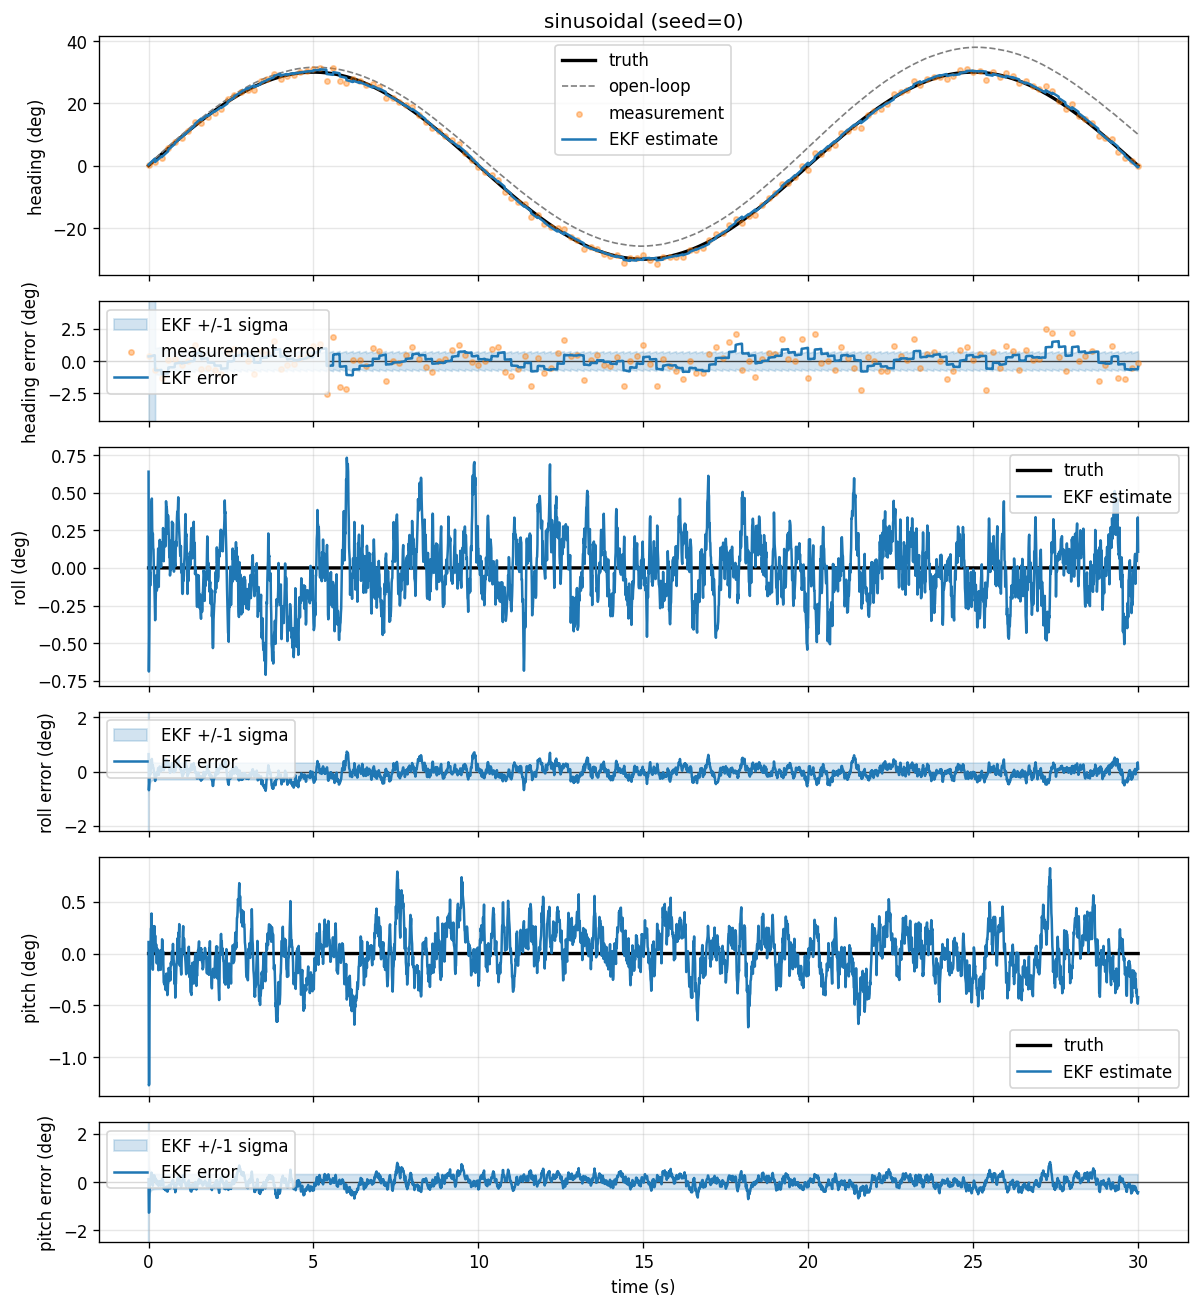
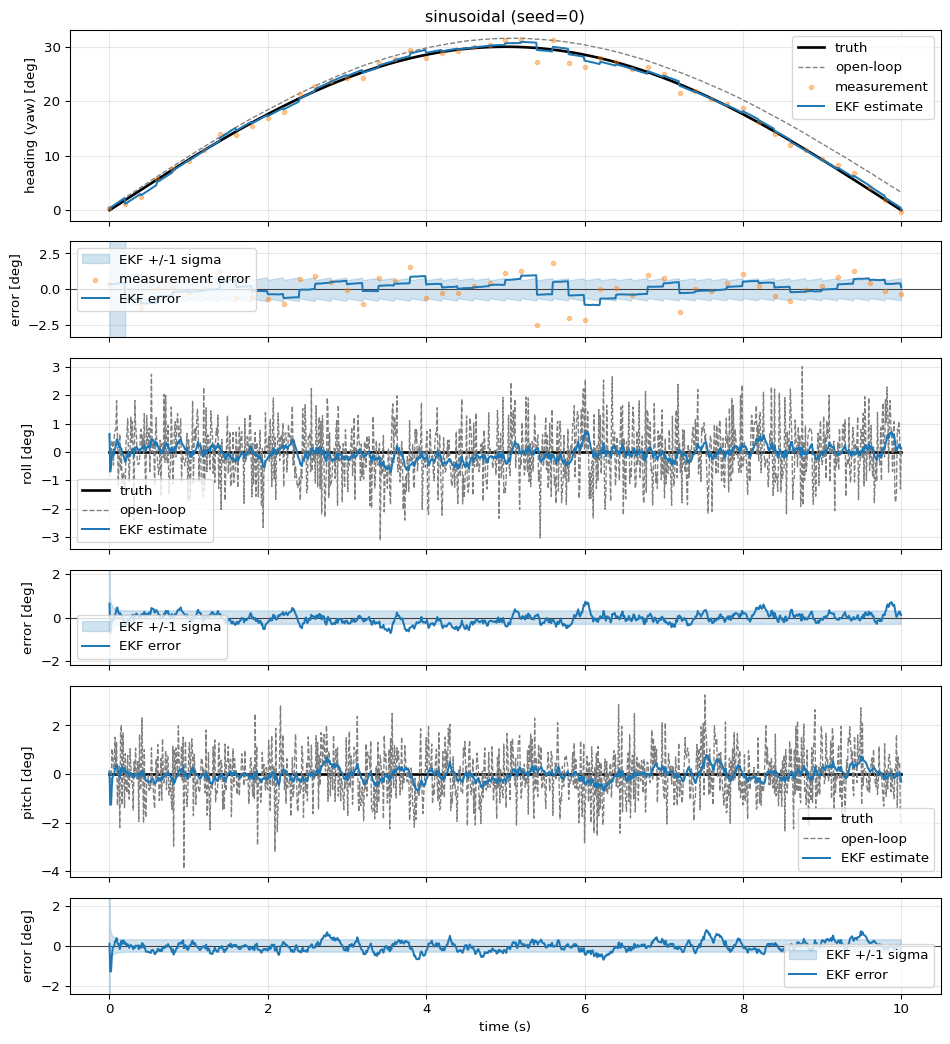
Add simulate last-frame PNG; lower image DPI to 96

diff --git a/sim/plrs_sim/plot.py b/sim/plrs_sim/plot.py
@@ -72,7 +72,7 @@ def plot_trace(
     fig.tight_layout()
 
     if save is not None:
-        fig.savefig(save, dpi=120, bbox_inches="tight")
+        fig.savefig(save, dpi=96, bbox_inches="tight")
     if show:
         plt.show()
     plt.close(fig)
@@ -134,7 +134,7 @@ def plot_pose(
     fig.tight_layout()
 
     if save is not None:
-        fig.savefig(save, dpi=120, bbox_inches="tight")
+        fig.savefig(save, dpi=96, bbox_inches="tight")
     if show:
         plt.show()
     plt.close(fig)
@@ -155,9 +155,10 @@ def plot_animate(
     displays it with `kitty +kitten icat --hold`; press any key to continue.
     On GUI backends, opens a Qt window that loops until closed.
     """
-    import matplotlib
     import subprocess
     import tempfile
+
+    import matplotlib
 
     heading = trace.channels["heading"]
     roll = trace.channels["roll"]
@@ -218,7 +219,7 @@ def plot_animate(
         if _has_imu_raw and not np.isnan(heading.openloop[i]):  # type: ignore[index]
             draw_boat(
                 ax,
-                roll.openloop[i],   # type: ignore[index]
+                roll.openloop[i],  # type: ignore[index]
                 pitch.openloop[i],  # type: ignore[index]
                 heading.openloop[i],  # type: ignore[index]
                 color="tab:green",
@@ -237,6 +238,7 @@ def plot_animate(
 
     def _write_gif(path: Path) -> None:
         from matplotlib.animation import PillowWriter
+
         total = len(gif_indices)
         w = PillowWriter(fps=_GIF_FPS)
         with w.saving(fig, path, dpi=_GIF_DPI):
@@ -249,10 +251,14 @@ def plot_animate(
     if save is not None:
         if str(save).endswith(".gif"):
             _write_gif(save)
+        elif str(save).endswith(".png"):
+            draw_frame(indices[-1])
+            fig.savefig(save, dpi=96, bbox_inches="tight")
         else:
             from matplotlib.animation import FFMpegWriter
+
             w = FFMpegWriter(fps=fps)
-            with w.saving(fig, save, dpi=120):
+            with w.saving(fig, save, dpi=96):
                 for i in indices:
                     draw_frame(i)
                     w.grab_frame()
@@ -260,7 +266,9 @@ def plot_animate(
     try:
         if show and _is_terminal:
             # Reuse an already-rendered save gif; otherwise write a temp one.
-            gif_path: Path | None = save if (save is not None and str(save).endswith(".gif")) else None
+            gif_path: Path | None = (
+                save if (save is not None and str(save).endswith(".gif")) else None
+            )
             tmp: Path | None = None
             if gif_path is None:
                 with tempfile.NamedTemporaryFile(suffix=".gif", delete=False) as f:
@@ -268,9 +276,7 @@ def plot_animate(
                 _write_gif(tmp)
                 gif_path = tmp
             try:
-                subprocess.run(
-                    ["kitty", "+kitten", "icat", str(gif_path)], check=False
-                )
+                subprocess.run(["kitty", "+kitten", "icat", str(gif_path)], check=False)
             finally:
                 if tmp is not None:
                     tmp.unlink(missing_ok=True)

diff --git a/sim/plrs_sim/boat3d.py b/sim/plrs_sim/boat3d.py
@@ -26,13 +26,13 @@ _DEG_TO_RAD = np.pi / 180.0
 # and heading.
 _VERTICES = np.array(
     [
-        [1.0, 0.0, 0.0],    # 0 bow
-        [0.5, 0.35, 0.0],   # 1 fwd port
+        [1.0, 0.0, 0.0],  # 0 bow
+        [0.5, 0.35, 0.0],  # 1 fwd port
         [-0.9, 0.30, 0.0],  # 2 transom port top
-        [-0.9, -0.30, 0.0], # 3 transom stbd top
+        [-0.9, -0.30, 0.0],  # 3 transom stbd top
         [0.5, -0.35, 0.0],  # 4 fwd stbd
         [-0.9, 0.30, -0.30],  # 5 transom port bottom (directly below 2)
-        [-0.9, -0.30, -0.30], # 6 transom stbd bottom (directly below 3)
+        [-0.9, -0.30, -0.30],  # 6 transom stbd bottom (directly below 3)
         [0.7, 0.0, -0.25],  # 7 keel fwd
     ]
 )
@@ -147,7 +147,7 @@ def plot_mounting(
     fig.tight_layout()
 
     if save is not None:
-        fig.savefig(save, dpi=120, bbox_inches="tight")
+        fig.savefig(save, dpi=96, bbox_inches="tight")
     if show:
         plt.show()
     plt.close(fig)

diff --git a/sim/plrs_sim/__main__.py b/sim/plrs_sim/__main__.py
@@ -173,12 +173,10 @@ def _zero_to_none(x: float) -> float | None:
 
 
 def _select_interactively(parser: argparse.ArgumentParser) -> argparse.Namespace | None:
-    """Arrow-key prompt for view then (if needed) scenario; returns parsed args or None."""
+    """Prompt for view then (if needed) scenario; returns parsed args or None."""
     import questionary
 
-    view_label = questionary.select(
-        "View", choices=[*_VIEW_LABELS, "quit"]
-    ).ask()
+    view_label = questionary.select("View", choices=[*_VIEW_LABELS, "quit"]).ask()
     if view_label is None or view_label == "quit":
         return None
     view = _VIEW_LABELS[view_label]

diff --git a/README.md b/README.md
@@ -145,7 +145,9 @@ by the mount offset and the GNSS baseline arrow:
 ![Mounting view showing a tilted IMU triad and offset GNSS baseline](docs/images/sim-mounting.png)
 
 **Simulate** — animated 3D boat over a 50 s run; truth (blue), EKF estimate
-(orange), IMU raw attitude (green), rendered as a GIF.
+(orange), IMU raw attitude (green), rendered as a GIF. Final frame:
+
+![Final frame of the 3D boat animation showing truth, EKF estimate, and IMU raw hulls](docs/images/sim-simulate.png)
 
 A static **pose** filmstrip is also available via `--view pose` on the CLI:
 